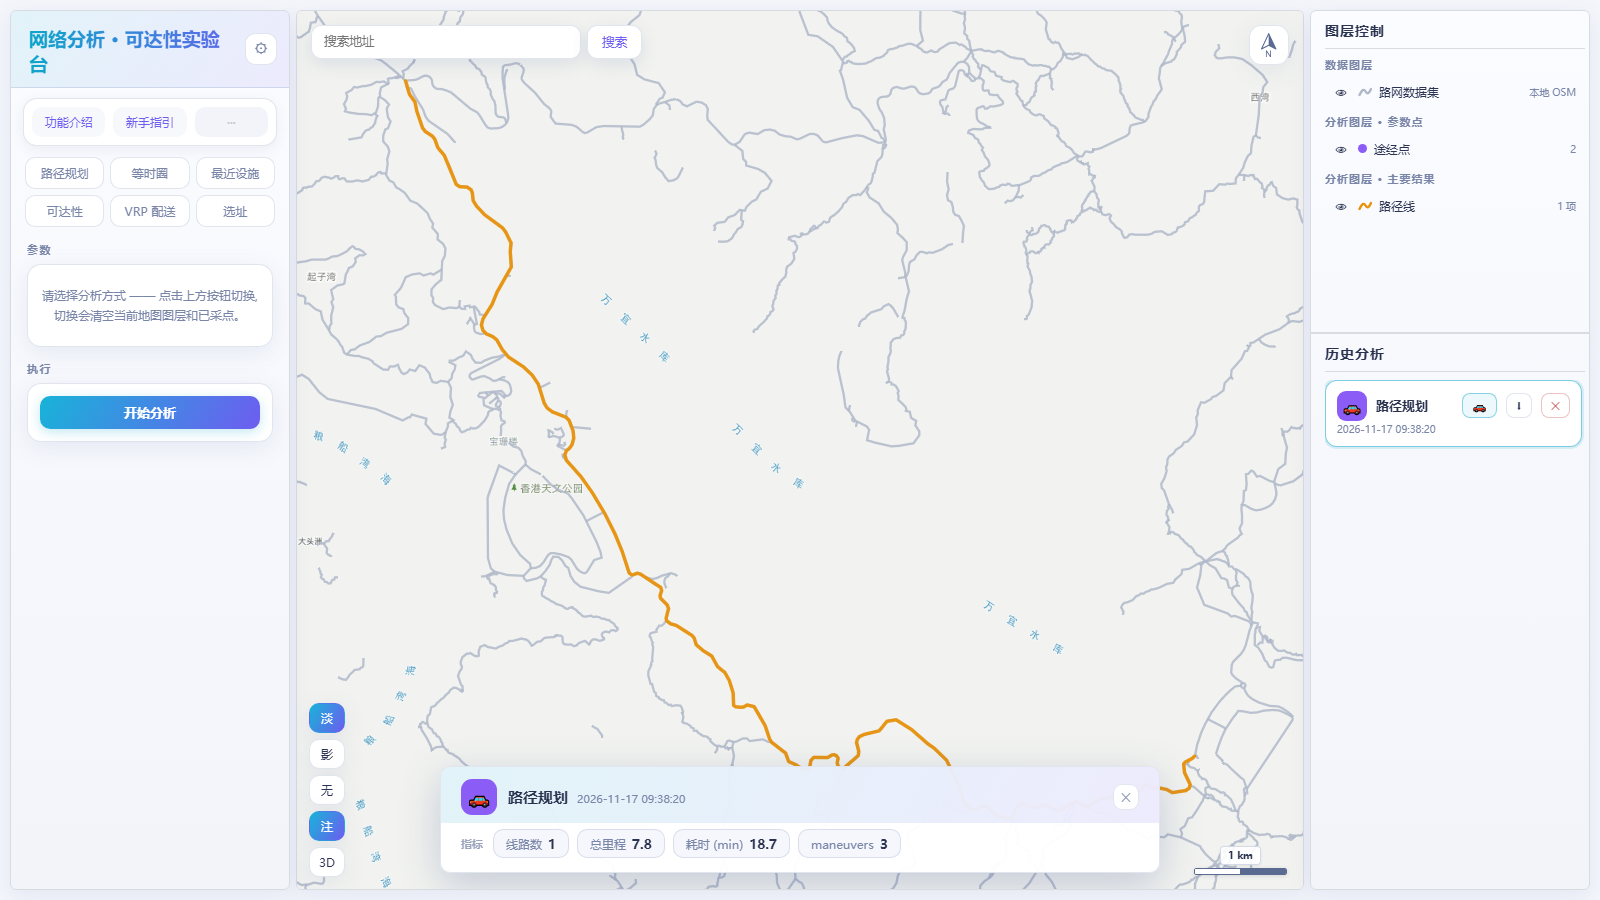
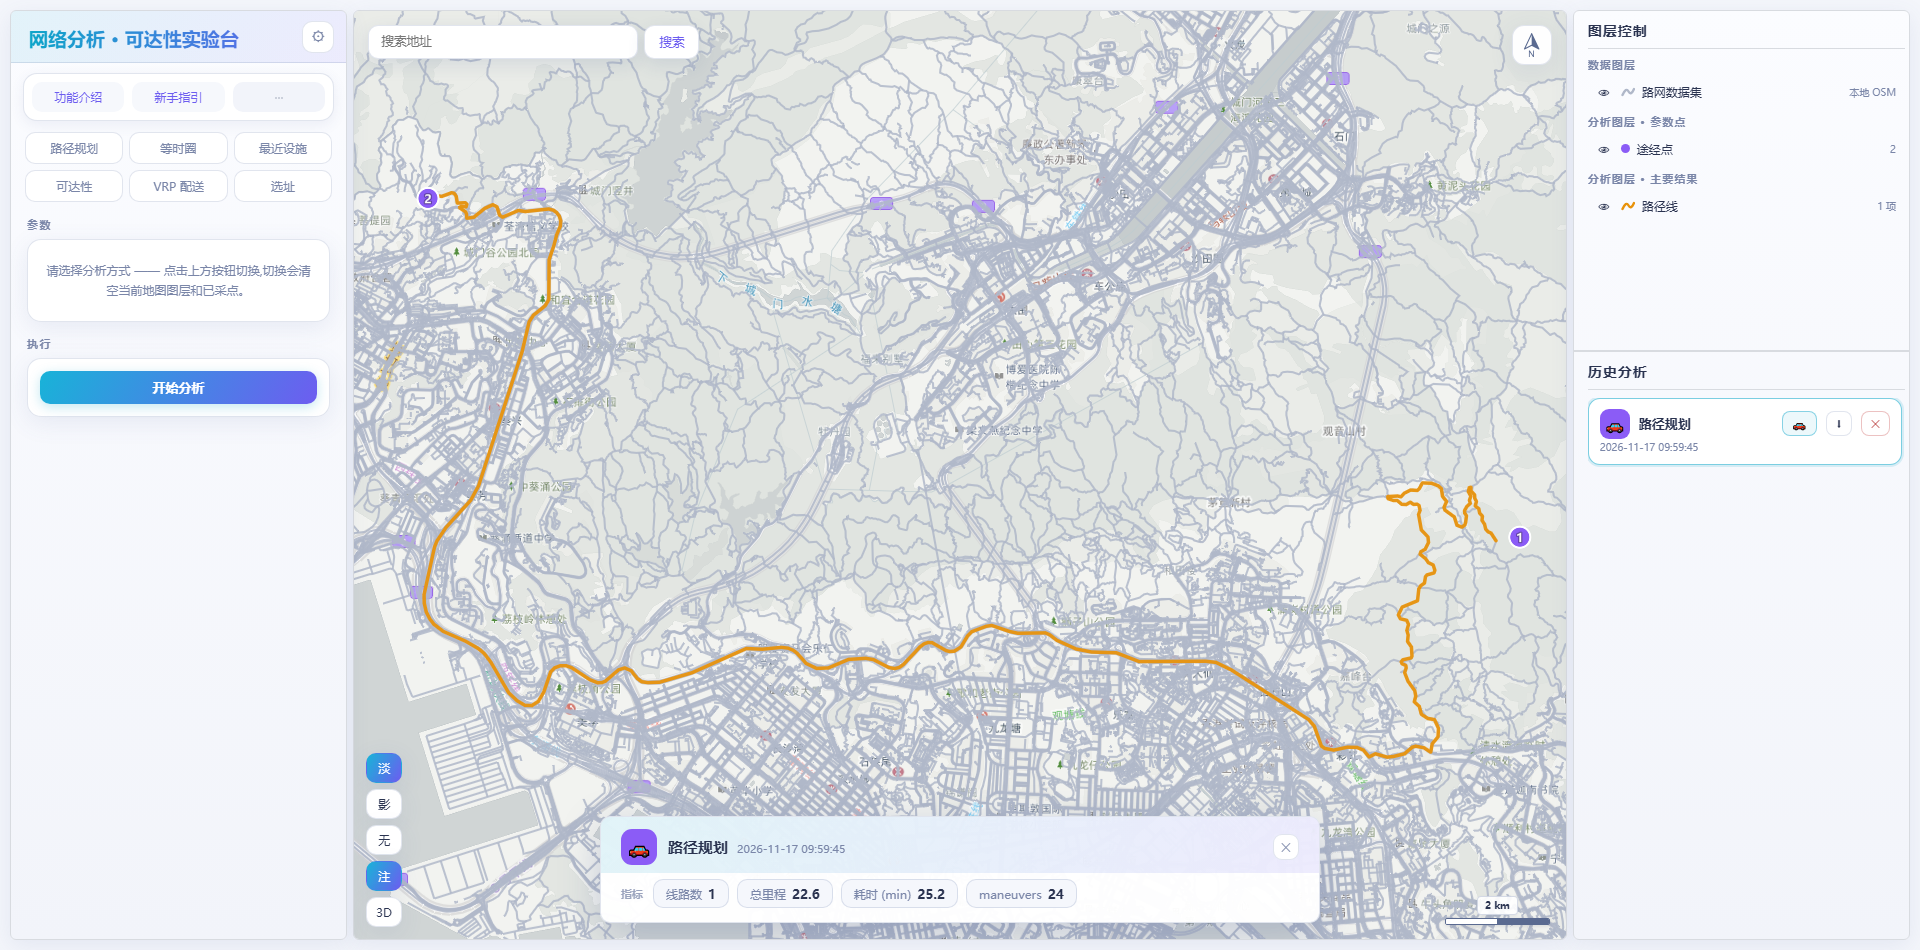
Restrict map navigation to Hong Kong bounds

Changed region(s): [[0.0, 0.0, 1.0, 0.9956], [0.9688, 0.0933, 1.0, 0.1244], [0.25, 0.0, 0.2812, 0.0311]]

diff --git a/webapp/src/composables/useMap.js b/webapp/src/composables/useMap.js
@@ -6,6 +6,8 @@ import bus from '../bus'
 
 let map = null
 let styleReady = false
+// HKSAR viewport bounds computed from the supplied administrative boundary.
+const HK_BOUNDS = [[113.834898374, 22.154044375], [114.442389815, 22.56191985]]
 export function getMap() { return map }
 
 export function useMap(onPick) {
@@ -14,8 +16,11 @@ export function useMap(onPick) {
     map = new maplibregl.Map({
       container: containerId,
       style: buildStyle(),
-      center: [114.33, 22.39],
-      zoom: 12.2,
+      center: [114.138644095, 22.357982112],
+      zoom: 9.5,
+      minZoom: 8.5,
+      maxZoom: 18,
+      maxBounds: HK_BOUNDS,
       maxPitch: 72,
       antialias: true,
       attributionControl: false
@@ -24,6 +29,10 @@ export function useMap(onPick) {
     map.on('click', e => { if (store.pickSet && onPick) onPick(store.pickSet, e.lngLat) })
     map.on('style.load', () => {
       styleReady = true
+      if (!map.__hkInitialBounds) {
+        map.__hkInitialBounds = true
+        map.fitBounds(HK_BOUNDS, { padding: 36, maxZoom: 10.5, duration: 0 })
+      }
       injectCartoLayers(map)
       applyTerrain(map, store.t3d)
       applyBasemap(map, store.bm)

diff --git a/webapp/public/driving.html b/webapp/public/driving.html
@@ -1588,7 +1588,8 @@ async function boot() {
   map = new maplibregl.Map({
     container: 'map', style,
     center: [coords[0][0], coords[0][1]],
-    zoom: 16, pitch: 60, bearing: 0, maxPitch: 85, antialias: true, attributionControl: false
+    zoom: 16, pitch: 60, bearing: 0, maxPitch: 85, antialias: true, attributionControl: false,
+    maxBounds: [[113.834898374, 22.154044375], [114.442389815, 22.56191985]], minZoom: 8.5, maxZoom: 20
   });
   map.addControl(new maplibregl.NavigationControl({ visualizePitch: true }), 'top-right');
   window.__map = map;

diff --git a/README.md b/README.md
@@ -10,6 +10,7 @@
 - 从 OSM 路段提取车道、限速、道路方向和信号灯属性，生成 OpenDRIVE / Lanelet2 导出。
 - 浏览器自动模拟导航：路线巡航、中文转向提示、路网与 3D 车道场景、交通车辆 / 行人、碰撞计分和天气效果。
 - 本地构建出 `roads_cn.mbtiles` 后，分析地图会自动显示香港 OSM 路网；天地图密钥未配置时不会请求无效注记瓦片。
+- GitHub 示例版的分析地图和自动驾驶页面都限制在香港样例范围，初始分析视野适配整个香港样例区。
 - 自动驾驶入口独立为 `webapp/public/driving.html`；本仓库不包含手动驾驶页面或手动驾驶入口。
 
 ## 技术组成
@@ -45,6 +46,7 @@
 ## 仓库数据
 
 - `data/input/hong-kong-261113.osm.pbf`：香港 OSM 示例快照（约 36 MiB），用于复现处理流程。
+- 分析地图和驾驶页按香港范围 bbox 限制拖动与缩放；初始分析页显示整个香港范围。
 - `data/samples/`：小型分析点集和从示例 PBF 提取的路线 GeoJSON。
 - `data/generated/`：构建生成的 Valhalla tiles、MVT 和道路属性索引；不提交。
 - `data/runtime/`：运行历史、临时结果和缓存；不提交。

diff --git a/docs/ARCHITECTURE.md b/docs/ARCHITECTURE.md
@@ -39,6 +39,7 @@ Vue 3 + MapLibre ──HTTP──> FastAPI :8004 ──────┤
 
 - Vue 3 + Vite：`webapp/src/` 内含分析状态、地图、底图、点集、结果历史和 UI 组件。
 - MapLibre GL JS：绘制 CARTO 底图、OSM MVT、结果 GeoJSON、设施点和分析图层；无天地图 key 时不注册天地图注记源，若后端有 `roads_cn.mbtiles` 则自动启用本地 OSM 道路层。
+- GitHub 示例版分析地图和自动驾驶页面按香港边界的 bbox 限制平移与缩放（113.8349–114.4424°E、22.1540–22.5619°N）；初始视野 fit 到整个范围，不使用多边形遮罩。范围常量从用户提供的本地边界文件计算，源文件不提交。
 - Vite 发布包将 MapLibre 6 的 worker 复制到 `/assets/maplibre-gl-worker.mjs`；FastAPI 对 `.mjs` 返回 JavaScript MIME，保证本地 worker 能启动。
 - `webapp/public/driving.html`：独立自动模拟驾驶页面；从 `localStorage.na_drive_route` 读取被选路线，未提供时展示香港示例线路。
 - Three.js 自定义 MapLibre layer：绘制玩家车、NPC 车和行人模型；路线进度和场景位置共享同一参考线。

diff --git a/data/README.md b/data/README.md
@@ -1,6 +1,7 @@
 # Data layout
 
 - `input/`: source PBF. The Hong Kong 2026-11-13 OSM extract is included as the reproducible sample.
+- `香港特别行政区.geojson`: optional local boundary input used to derive the fixed HK viewport bounds; this user-provided file is not included in the public repository.
 - `samples/`: small GeoJSON point sets and a short route fixture used by the UI and automatic-drive demo.
 - `generated/`: Valhalla graph/config, OSM road index, and MVT tiles. Created by the data pipeline; ignored by Git.
 - `runtime/`: analysis run history and matrix cache. Created at runtime; ignored by Git.
